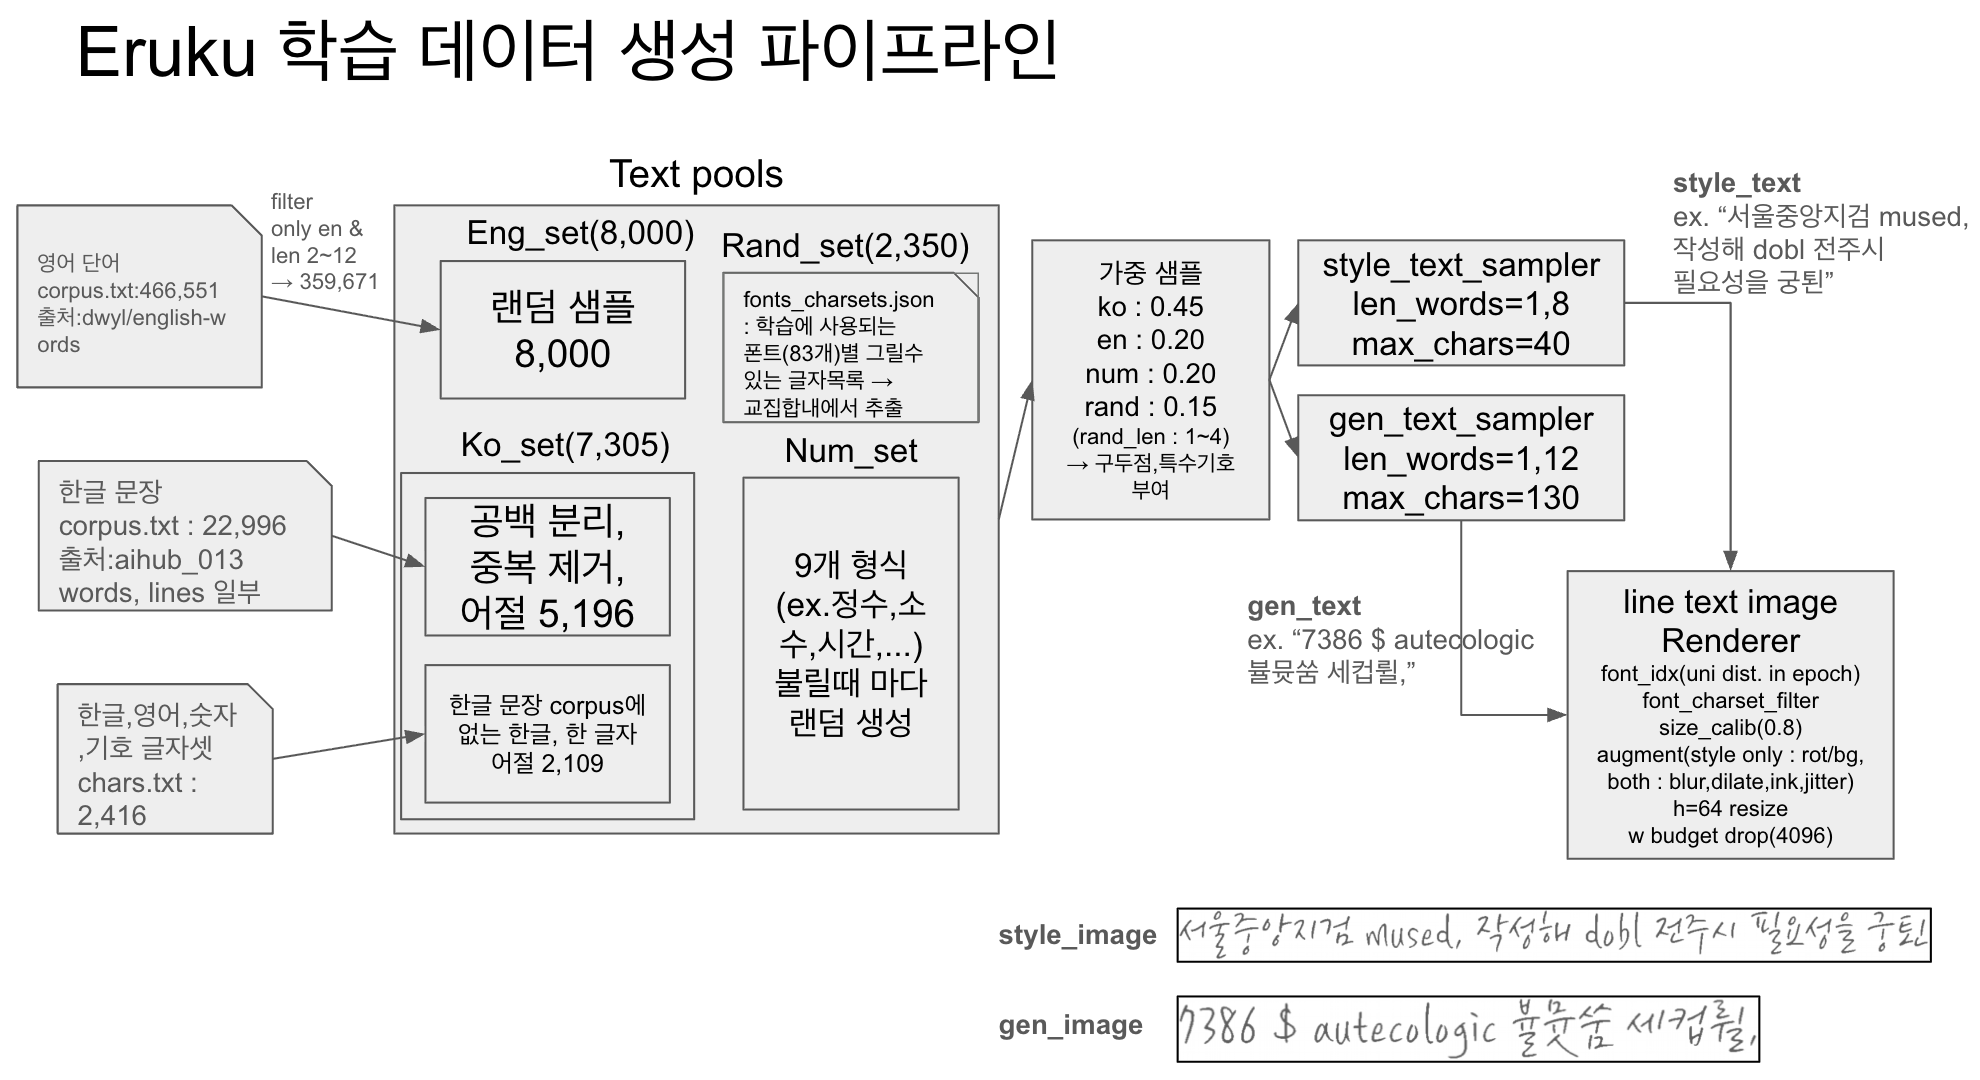
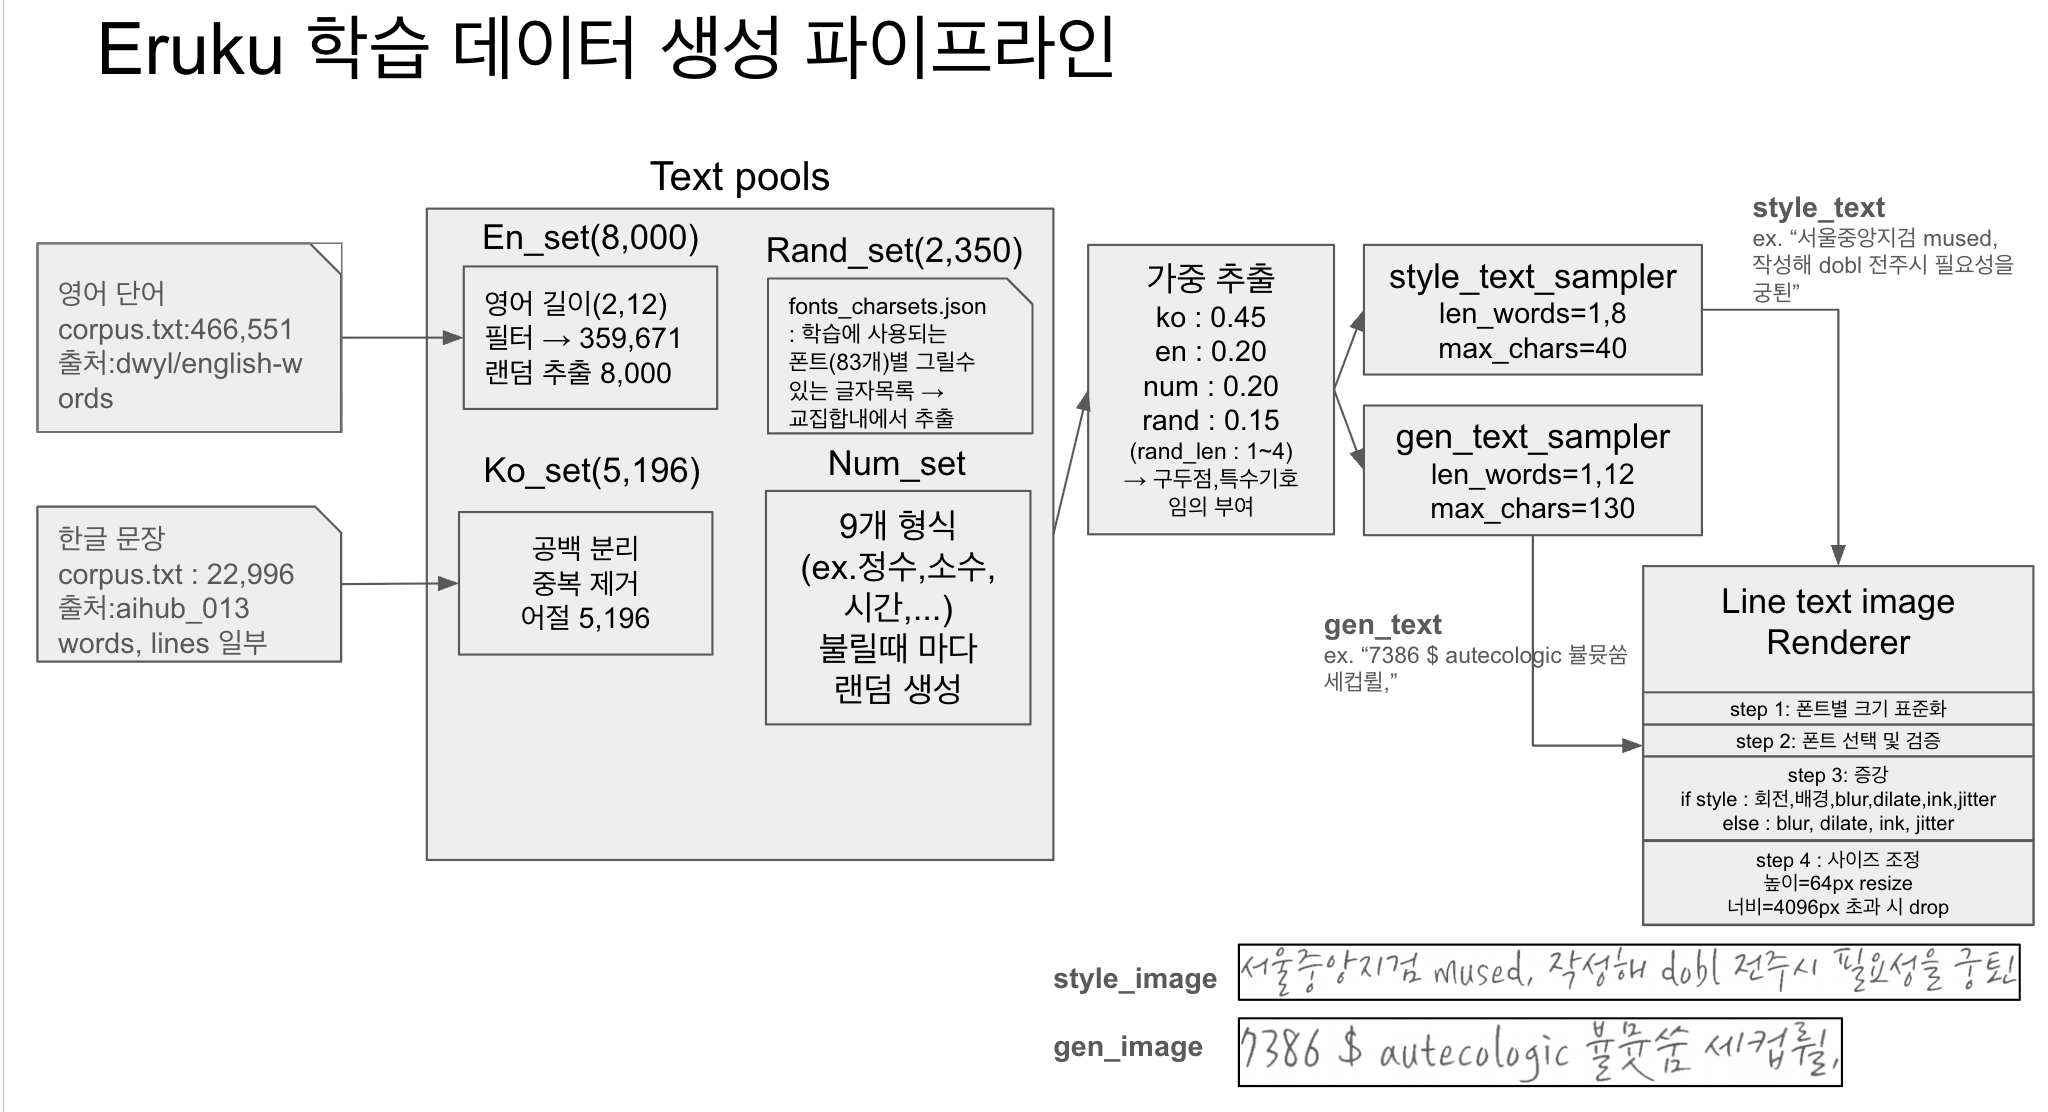
Update the text-sampling figure; guard the alphabet's use of chars.txt
New figure drops the chars.txt arrow into Ko_set (D2) and expands the
renderer into its four steps, so the note about it being out of date
comes off.

chars.txt is not unused though. It no longer feeds the sampler, but it
still supplies most of the Hangul in the HTR/VAE alphabet: of the 2,345
syllables in assets/korean_charset.json, korean_lines.txt contributes
only 754. That json is frozen, so nothing breaks today -- but if it were
ever rebuilt without chars.txt the alphabet would quietly drop to 921
symbols against the 2512 every trained reader expects, including the one
eval/htr_cer.py loads. _corpus_syllables now raises on a missing file
instead of skipping it.

diff --git a/custom_datasets/korean/alphabet.py b/custom_datasets/korean/alphabet.py
@@ -25,12 +25,22 @@ CORPUS = HERE / "assets" / "corpus"
 
 
 def _corpus_syllables() -> list[str]:
-    """코퍼스(korean_lines.txt, chars.txt)에 등장하는 한글 음절(AC00–D7A3) 집합, 정렬."""
+    """코퍼스(korean_lines.txt, chars.txt)에 등장하는 한글 음절(AC00–D7A3) 집합, 정렬.
+
+    ★ `chars.txt` 가 한글 음절의 대부분을 공급한다(2,345 중 korean_lines 기여는 754 뿐).
+      없으면 알파벳이 2,345 → 754 로 쪼그라들어 **학습된 HTR/VAE 가 전부 못 맞는다**
+      (aux_htr_ko/htr_s20000 은 alphabet_size=2512 = 2,509+3 로 고정). 그래서 조용히
+      건너뛰지 않고 에러로 막는다. 샘플러는 더 이상 chars.txt 를 쓰지 않지만
+      (docs/DATA_LIMITATIONS.md D2) 이 알파벳 경로는 계속 쓴다.
+    """
     seen = set()
     for name in ("korean_lines.txt", "chars.txt"):
         fp = CORPUS / name
-        if fp.exists():
-            seen |= set(fp.read_text(encoding="utf-8"))
+        if not fp.exists():
+            raise FileNotFoundError(
+                f"알파벳 구성에 필요한 코퍼스가 없습니다: {fp}\n"
+                "  이 파일이 빠지면 한글 음절 수가 줄어 기존 HTR/VAE 체크포인트와 어긋납니다.")
+        seen |= set(fp.read_text(encoding="utf-8"))
     syl = sorted(c for c in seen if 0xAC00 <= ord(c) <= 0xD7A3)
     return syl
 

diff --git a/docs/DATA_GENERATION.md b/docs/DATA_GENERATION.md
@@ -220,10 +220,6 @@ ds = OnlineSplitFontSquare(
 
 ![텍스트 샘플링 파이프라인](img_text_sampling.png)
 
-> ⚠ 그림은 2026-08-19 기준이라 `Ko_set(7,305) = 어절 5,196 + chars.txt 낱글자 2,109` 로 그려져
-> 있는데, [D2](DATA_LIMITATIONS.md#d2-charstxt-가-ko-풀에-낱글자로-섞여-들어간다) 수정으로
-> **낱글자 합류 경로가 없어져 지금은 Ko_set = 5,196** 이다. 나머지 흐름은 그대로다.
->
 > 그림의 sampler 파라미터(`len_words=1,8` / `1,12`, `max_chars=40` / `130`)와 예시 텍스트·이미지는
 > `finetune_runs/eruku_short_fullmse` 실행(seed 15042) 기준이다. 어절 수 범위는 Phase 별로 다르고
 > `--style-words` / `--gen-words` 로 바뀐다(§8-2). `max_chars` 는 하드코딩
